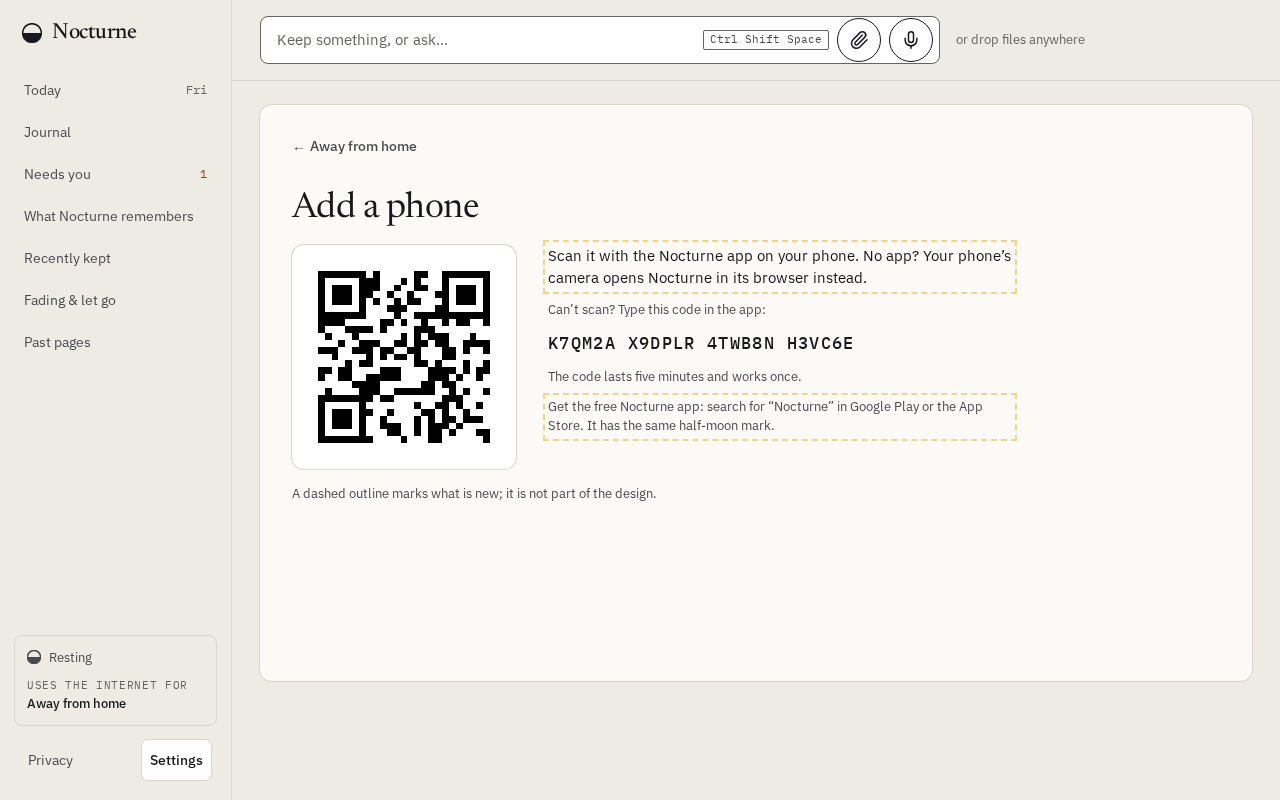
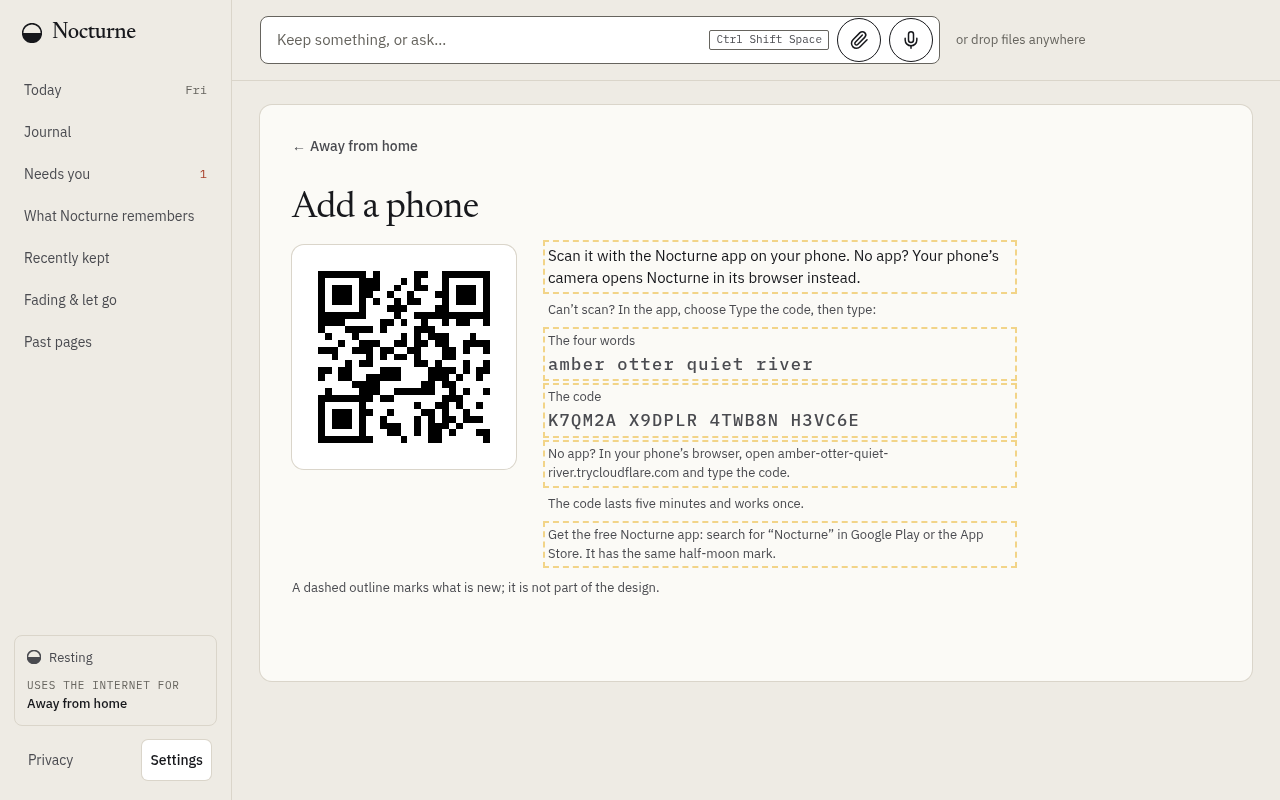
docs(design): add the address to typed pairing

diff --git a/docs/design/mockups/phone-apps/pair.html b/docs/design/mockups/phone-apps/pair.html
@@ -11,13 +11,17 @@
   "welcome": { "bar": "none" },
   "scan": { "bar": "modal", "title": "Scan the code", "back": "Cancel" },
   "camera-off": { "bar": "modal", "title": "Scan the code", "back": "Cancel" },
-  "type": { "bar": "back", "title": "Type the code", "back": "Welcome" },
+  "type": { "bar": "back", "title": "Your computer’s address", "back": "Back" },
+  "type-name": { "bar": "back", "title": "Your computer’s address", "back": "Back" },
+  "type-wrong": { "bar": "back", "title": "Your computer’s address", "back": "Back" },
+  "type-lost": { "bar": "back", "title": "Your computer’s address", "back": "Back" },
+  "type-code": { "bar": "back", "title": "Type the code", "back": "Address" },
   "words": { "bar": "none" },
   "allowed": { "bar": "none" }
 }
 </script>
 </head>
-<body data-frame="duo" data-states="welcome scan camera-off type words allowed">
+<body data-frame="duo" data-states="welcome scan camera-off type type-name type-wrong type-lost type-code words allowed">
 <main id="content">
 
   <!-- Welcome -->
@@ -28,7 +32,7 @@
   </div>
   <ol class="steps" data-state="welcome">
     <li><span>On your computer, open Nocturne and choose <span class="cc">Settings</span>, then <span class="cc">Away from home</span>, then <span class="cc">Add a phone</span>.</span></li>
-    <li><span>Scan the code it shows, or type it.</span></li>
+    <li><span>Scan the code it shows, or type the address and the code.</span></li>
   </ol>
   <div class="foot" data-state="welcome">
     <span class="btn" data-kind="primary"><span data-icon="scan" data-size="20"></span>Scan the code</span>
@@ -57,11 +61,22 @@
     <span class="btn">Type the code</span>
   </div>
 
-  <!-- Type -->
-  <p class="plead" data-state="type">The 24 letters and numbers under the code on your computer.</p>
-  <div class="codeGroups" data-state="type"><span>K7QM2A</span><span>X9DPLR</span><span>4TWB8N</span><span style="color: var(--ink3)">______</span></div>
-  <p class="small" data-state="type">Capitals don’t matter.</p>
-  <div class="foot" data-state="type"><span class="btn" data-kind="primary" style="opacity: 0.45">Connect</span><span class="btn" data-kind="quiet">Scan the code instead</span></div>
+  <!-- Type: the address first -->
+  <p class="plead" data-state="type type-name type-wrong type-lost">On your computer, under the code, find the four words or the name. Type it here.</p>
+  <div class="fieldWrap" data-state="type type-name type-wrong type-lost">
+    <span class="fieldLabel">Your computer’s address</span>
+    <div class="fieldInput"><span data-state="type"><span class="ph">Four words, or a name</span></span><span data-state="type-name">sam-desktop.tail4f2a.ts.net</span><span data-state="type-wrong">amber otter quiet</span><span data-state="type-lost">amber otter quiet river</span></div>
+    <p class="small" data-state="type type-name">Simple shows four words. Most private shows a name. Capitals don’t matter.</p>
+    <p class="pstatus" data-state="type-wrong" style="color: var(--ink)"><span class="pdot"></span>Type all four words, or the full name.</p>
+    <p class="pstatus" data-state="type-lost" style="color: var(--ink)"><span class="pdot"></span>That address didn’t answer. Check the words, and that your computer is awake.</p>
+  </div>
+  <div class="foot" data-state="type type-name type-wrong type-lost"><span class="btn" data-kind="primary" data-state="type type-wrong" style="opacity: 0.45">Next</span><span class="btn" data-kind="primary" data-state="type-name type-lost">Next</span><span class="btn" data-kind="quiet">Scan the code instead</span></div>
+
+  <!-- Type: then the code -->
+  <p class="plead" data-state="type-code">Now the 24 letters and numbers under the address on your computer.</p>
+  <div class="codeGroups" data-state="type-code"><span>K7QM2A</span><span>X9DPLR</span><span>4TWB8N</span><span style="color: var(--ink3)">______</span></div>
+  <p class="small" data-state="type-code">Capitals don’t matter.</p>
+  <div class="foot" data-state="type-code"><span class="btn" data-kind="primary" style="opacity: 0.45">Connect</span><span class="btn" data-kind="quiet">Scan the code instead</span></div>
 
   <!-- Three words -->
   <div class="hero" data-state="words" style="padding-top: 28px">

diff --git a/docs/design/mockups/phone-apps/desktop-sources.html b/docs/design/mockups/phone-apps/desktop-sources.html
@@ -108,8 +108,10 @@
       <span class="qrBox"><span data-qr="200"></span></span>
       <div style="display: flex; flex-direction: column; gap: var(--s-3)">
         <p class="newRow">Scan it with the Nocturne app on your phone. No app? Your phone’s camera opens Nocturne in its browser instead.</p>
-        <p class="small">Can’t scan? Type this code in the app:</p>
-        <p class="codeLine">K7QM2A X9DPLR 4TWB8N H3VC6E</p>
+        <p class="small">Can’t scan? In the app, choose Type the code, then type:</p>
+        <p class="small newRow" style="display: flex; flex-direction: column; gap: 2px"><span>The four words</span><span class="codeLine">amber otter quiet river</span></p>
+        <p class="small newRow" style="display: flex; flex-direction: column; gap: 2px"><span>The code</span><span class="codeLine">K7QM2A X9DPLR 4TWB8N H3VC6E</span></p>
+        <p class="small newRow">No app? In your phone’s browser, open amber-otter-quiet-river.trycloudflare.com and type the code.</p>
         <p class="small">The code lasts five minutes and works once.</p>
         <div class="newRow" style="display: flex; flex-direction: column; gap: var(--s-2)">
           <p class="small">Get the free Nocturne app: search for “Nocturne” in Google Play or the App Store. It has the same half-moon mark.</p>

diff --git a/docs/design/mockups/phone-apps/index.html b/docs/design/mockups/phone-apps/index.html
@@ -16,7 +16,11 @@
     <li><a href="pair.html?state=welcome">Welcome</a></li>
     <li><a href="pair.html?state=scan">Scan the code</a></li>
     <li><a href="pair.html?state=camera-off">The camera is off</a></li>
-    <li><a href="pair.html?state=type">Type the code</a></li>
+    <li><a href="pair.html?state=type">Type the address (Simple)</a></li>
+    <li><a href="pair.html?state=type-name">Type the address (Most private)</a></li>
+    <li><a href="pair.html?state=type-wrong">Address incomplete</a></li>
+    <li><a href="pair.html?state=type-lost">Address didn’t answer</a></li>
+    <li><a href="pair.html?state=type-code">Type the code</a></li>
     <li><a href="pair.html?state=words">Three words</a></li>
     <li><a href="pair.html?state=allowed">Allowed</a></li>
   </ol>

diff --git a/docs/design/phone-apps.md b/docs/design/phone-apps.md
@@ -36,7 +36,7 @@ screen; it is not part of the design.
 
 | Screen | File and states | Renders |
 |---|---|---|
-| First run and pairing | `pair.html`: `welcome`, `scan`, `camera-off`, `type`, `words`, `allowed` | `pair-welcome-light.png`, `pair-welcome-dark.png`, `pair-scan-light.png`, `pair-camera-off-light.png`, `pair-words-light.png`, `pair-allowed-light.png` |
+| First run and pairing | `pair.html`: `welcome`, `scan`, `camera-off`, `type`, `type-name`, `type-wrong`, `type-lost`, `type-code`, `words`, `allowed` | `pair-welcome-light.png`, `pair-welcome-dark.png`, `pair-scan-light.png`, `pair-camera-off-light.png`, `pair-type-light.png`, `pair-type-name-light.png`, `pair-type-wrong-light.png`, `pair-type-lost-light.png`, `pair-type-code-light.png`, `pair-words-light.png`, `pair-allowed-light.png` |
 | Bringing the calendar | `calendar.html`: `offer`, `why`, `system`, `no`, `pick` | `calendar-offer-light.png`, `calendar-why-light.png`, `calendar-why-dark.png`, `calendar-system-light.png`, `calendar-no-light.png`, `calendar-pick-light.png` |
 | Today, the page | `today.html`: `page`, `away`, `update-phone`, `update-computer` | `today-page-light.png`, `today-page-dark.png`, `today-away-light.png`, `today-update-phone-light.png`, `today-update-computer-light.png` |
 | The journal | `journal.html`: `day` | `journal-day-light.png`, `journal-day-dark.png` |
@@ -112,10 +112,11 @@ flowchart TD
     S[Install Nocturne from the store] --> W[Welcome: Nocturne lives on your computer]
     W -->|Scan the code| C{Camera allowed?}
     C -->|Yes| SC[Scan the code on the computer]
-    C -->|No| T[Type the code]
+    C -->|No| T[Type the address]
     W -->|Type the code| T
+    T --> TC[Type the code]
+    TC --> N
     SC --> N[Name this phone]
-    T --> N
     N --> WD[Three words, Allow on the computer]
     WD --> A[Allowed]
     A --> O{Bring more from this phone?}
@@ -171,7 +172,7 @@ The app opens here until it is paired. One screen, two ways in.
 |---|---|
 | Mark and title | "Nocturne lives on your computer" |
 | Lead | "This app lets you keep things, ask and read your page while you’re out. It works with Nocturne on your computer." |
-| Steps | "1. On your computer, open Nocturne and choose {settings}, then {awayFromHome}, then {addAPhone}." / "2. Scan the code it shows, or type it." |
+| Steps | "1. On your computer, open Nocturne and choose {settings}, then {awayFromHome}, then {addAPhone}." / "2. Scan the code it shows, or type the address and the code." |
 | Main button | "Scan the code" |
 | Second button | "Type the code" |
 | Foot | "No account and no sign-in. This phone keeps no copy of your memory." |
@@ -200,8 +201,19 @@ type the code instead." with "Open phone settings" and "Type the code". On iPhon
 and on Android after two, only the phone's settings can turn it back on, so the first button is
 the way back.
 
-**Type.** "Type the code", the 24 characters in four groups of six, "Capitals don’t matter." and
-"Connect". The typed code carries the same secret as the scanned one.
+**Type.** A scanned code carries the computer's address; typing does not, and the app has no page
+address to borrow as the phone page does. So typing takes two screens, the address first.
+
+| Screen | What it asks | Copy |
+|---|---|---|
+| Address | One field, "Your computer’s address". Four words (Simple) or a full name (Most private), told apart by the dots in a name. Spaces, dashes and capitals are fine | Title "Your computer’s address". "On your computer, under the code, find the four words or the name. Type it here." Hint "Simple shows four words. Most private shows a name. Capitals don’t matter." Placeholder "Four words, or a name". Buttons "Next" and "Scan the code instead" |
+| Code | The 24 characters in four groups of six | Title "Type the code". "Now the 24 letters and numbers under the address on your computer." "Capitals don’t matter." Buttons "Connect" and "Scan the code instead" |
+
+"Next" stays dim until the field holds four words or something shaped like a name. On "Next" the
+app asks the address whether it answers, then moves to the code. The typed code carries the same
+secret as the scanned one. Wrong or unreachable addresses keep the person on the address screen
+with what they typed still in the field, and the message under it (see [States](#states)).
+The re-link path ("Type the four words") is unchanged.
 
 **Name and three words.** As on the phone page: "Name this phone", "Your computer shows this name in
 its list of phones, so pick one you’ll recognise.", then "Check your computer shows the same three
@@ -395,6 +407,8 @@ with "Open phone settings".
 |---|---|
 | Connecting | "Connecting to {name}…" (Phone page) in the status line; the tabs work from what is already open |
 | Computer asleep or unreachable | The phone page's banner, "{name} is asleep, switched off or has a new address.", on Today and Journal. Today reads "Today’s page is back when your computer is. This phone keeps no copy." Keep works and waits, with "{count} waiting". Calendar and health changes wait too, and only the latest version of each goes across |
+| Address incomplete, in the app | Under the field: "Type all four words, or the full name." "Next" stays dim |
+| Address did not answer, in the app | Under the field: "That address didn’t answer. Check the words, and that your computer is awake." (Most private: "That address didn’t answer. Check the name, and that Tailscale is on for this phone."). What was typed stays; nothing moves on |
 | New address (Simple) | The re-link banner, with "Scan the new code" and "Type the four words" |
 | Please update this phone | See [Please update](#please-update) |
 | Please update the computer | See [Please update](#please-update) |
@@ -469,11 +483,17 @@ unless the person chose otherwise ([decision 0011](/adr/0011-online-answers.md))
 ### Adding a phone
 
 The "Add a phone" step in Away from home gains one paragraph under the code, and its words change
-where they promised there was nothing to install.
+where they promised there was nothing to install. Under "Can’t scan?" it also shows what the app
+needs when typing: the address, then the code. The line for the browser stays, so the page path
+still works.
 
 | Part | Today | With the app |
 |---|---|---|
 | Under the code | "Scan it with your phone’s camera." | "Scan it with the Nocturne app on your phone. No app? Your phone’s camera opens Nocturne in its browser instead." |
+| Can’t scan, intro | "Can’t scan?" | "Can’t scan? In the app, choose Type the code, then type:" |
+| Can’t scan, address | | Simple: "The four words" and the words, such as "amber otter quiet river". Most private: "Your computer’s name" and the full name |
+| Can’t scan, code | "On your phone, open {address} and type this code:" and the code | "The code" and the code in four groups of six |
+| Can’t scan, browser | | "No app? In your phone’s browser, open {address} and type the code." The address is the full one in both modes |
 | A new line | | "Get the free Nocturne app: search for “Nocturne” in Google Play or the App Store. It has the same half-moon mark." |
 | Simple, what it needs | "Nothing to sign up for. Nothing to install on your phone." | "Nothing to sign up for. Use the Nocturne app, or your phone’s browser." |
 | Simple, what it sees | "Cloudflare carries locked messages between your phone and this computer. It can see when your phone connects and from where, and it supplies the page your phone opens." | "Cloudflare carries locked messages between your phone and this computer. It can see when your phone connects and from where. If you use the browser instead of the app, it also supplies the page your phone opens." |
@@ -616,13 +636,25 @@ New strings only; everything marked "Phone page" above is reused as it is.
 | Welcome, title | "Nocturne lives on your computer" |
 | Welcome, lead | "This app lets you keep things, ask and read your page while you’re out. It works with Nocturne on your computer." |
 | Welcome, step 1 | "On your computer, open Nocturne and choose {settings}, then {awayFromHome}, then {addAPhone}." |
-| Welcome, step 2 | "Scan the code it shows, or type it." |
+| Welcome, step 2 | "Scan the code it shows, or type the address and the code." |
 | Welcome, foot | "No account and no sign-in. This phone keeps no copy of your memory." |
 | Welcome, link | "No Nocturne on your computer yet?" |
 | Phone page, app line | "Got the Nocturne app? Open it and choose Scan the code instead." |
 | Camera off | "The camera is off for Nocturne." / "Allow it in your phone’s settings, or type the code instead." |
 | Open settings | "Open phone settings" |
+| Address, title | "Your computer’s address" |
+| Address, lead | "On your computer, under the code, find the four words or the name. Type it here." |
+| Address, hint | "Simple shows four words. Most private shows a name. Capitals don’t matter." |
+| Address, placeholder | "Four words, or a name" |
+| Address, incomplete | "Type all four words, or the full name." |
+| Address, no answer | "That address didn’t answer. Check the words, and that your computer is awake." / Most private: "That address didn’t answer. Check the name, and that Tailscale is on for this phone." |
+| Address, button | "Next" |
+| Code, lead | "Now the 24 letters and numbers under the address on your computer." |
 | Type, hint | "Capitals don’t matter." |
+| Computer, can’t scan | "Can’t scan? In the app, choose Type the code, then type:" |
+| Computer, address | "The four words" (Simple) / "Your computer’s name" (Most private) |
+| Computer, code | "The code" |
+| Computer, browser | "No app? In your phone’s browser, open {address} and type the code." |
 | Allowed, body | "Keep, ask and read your page from here." |
 | Allowed, button | "Continue" |
 | Offer, title | "Bring more from this phone?" |
@@ -756,5 +788,6 @@ things marked private.
 | 10 | Something removed on the phone (a cancelled appointment, a reading deleted in Health) | A: kept on the computer, marked as removed, left out of the page and charts, deleted only when the person chooses. B: deleted on the computer too | A never deletes silently and keeps the page honest about what changed. B mirrors the phone exactly but deletes data without the person asking | **A** |
 | 11 | How the computer's code opens the app | A: one code for both; the app scans it, and the phone's own camera opens the phone page. B: a link that opens the app straight from the phone's camera, which needs a verified address on the project's site | A needs nothing new and no site involvement. B is one step shorter, but ties pairing to the site staying up and lets the site see that someone tried to pair, though not the secret | **A** |
 | 12 | How far apart phone and computer may be | A: the same version only. B: each side keeps the previous phone version for six months after a change | A is simplest to build and test but shows "please update" after almost every release. B means a phone that updates now and then never sees the card, at the cost of testing two versions | **B** |
+| 13 | Typed pairing in the app asks for the address too | A: the app asks for the computer’s address (four words in Simple, the full name in Most private), then the code. B: fold the address into the typed code | A reuses the four words people already type to re-link, and the code stays the 24 characters it is. B makes one long string to type with nothing to check by eye, and changes the code the protocol already defines | **A** |
 
 Health decisions H1 to H8 are on [Health from the phone](phone-health.md#decisions-for-the-owner).

diff --git a/docs/logs/2026-11/21-proposed-native-phone-apps.md b/docs/logs/2026-11/21-proposed-native-phone-apps.md
@@ -8,7 +8,7 @@ status: stable
 ---
 
 [Nocturne on Android and iPhone](/design/phone-apps.md) proposes native apps that replace the
-phone's browser page: install from the store, pair by scanning or typing the code inside the app,
+phone's browser page: install from the store, pair by scanning, or by typing the computer's address and then the code, inside the app,
 a bottom bar with Today, Journal and Ask, Keep one tap away and in every app's share menu, plain
 asks for the camera, microphone, calendar and health with a working no, and states for a computer
 that is away or on another version. The phone's calendar shows on the morning page and the
